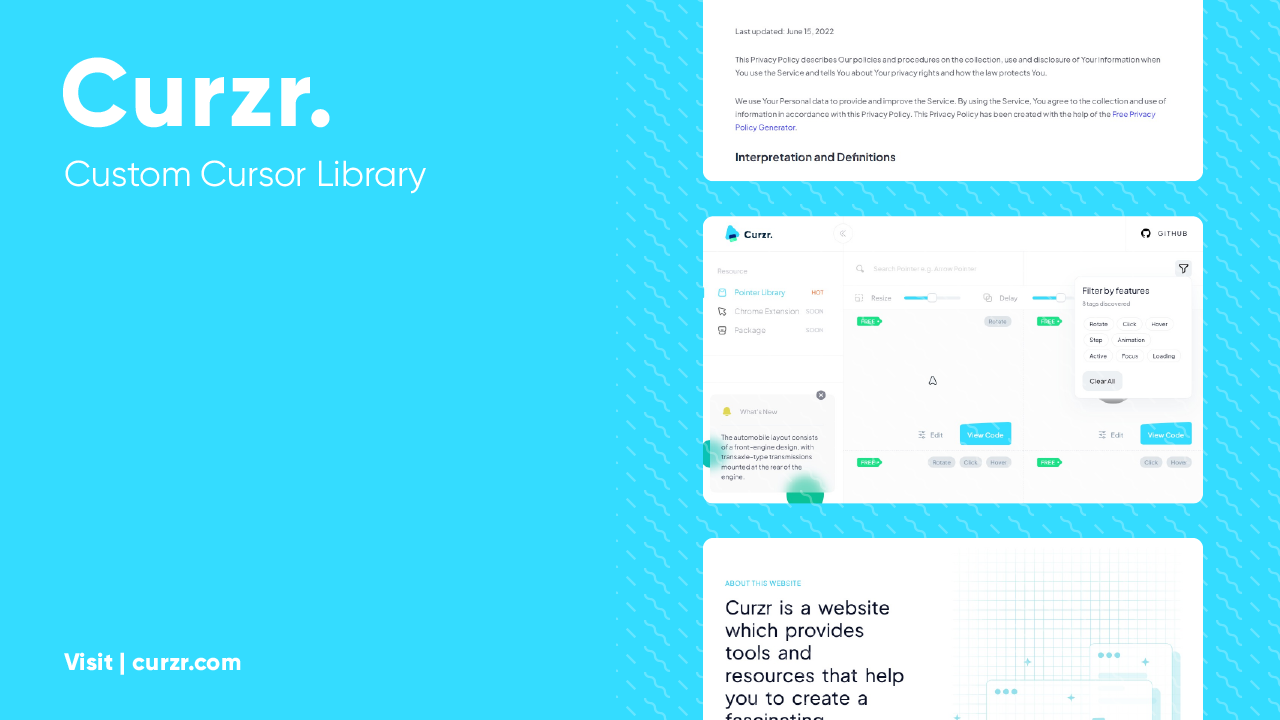
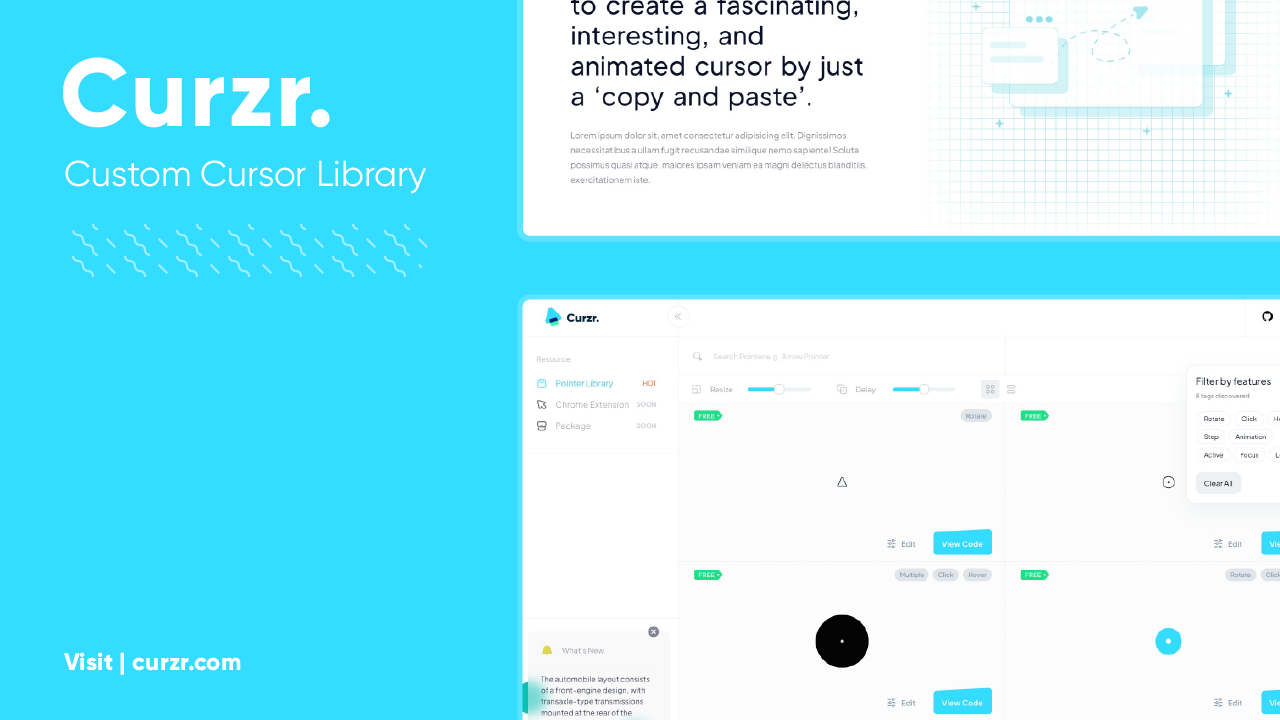
update fall back of cursor for cross browser compatibility

diff --git a/src/components/cursors/ring-dot.vue b/src/components/cursors/ring-dot.vue
@@ -49,6 +49,7 @@
         this.$refs.cursor.style.top = (getComputedStyle(this.$refs.cursor).getPropertyValue('--cursor-size').slice(0, -2) / -2) + 'px' 
         this.$refs.cursor.style.left = (getComputedStyle(this.$refs.cursor).getPropertyValue('--cursor-size').slice(0, -2) / -2) + 'px'
         this.$refs.cursor.style.transition = ''
+        this.$parent.$el.addEventListener('click', this.click)
       },
       /**
        * Get the cursor position by event and apply them to the transform property of the cursor 
@@ -57,12 +58,12 @@
        * @param {object} cursorBlock
        */
       move(event, cursorBlock) {
-        this.pointerX = event.pageX - cursorBlock.getBoundingClientRect().x
-        this.pointerY = event.pageY - cursorBlock.getBoundingClientRect().y + this.$root.$el.getBoundingClientRect().y
-
         event.target.localName === 'button' || event.target.localName === 'a' || event.target.parentElement.localName === 'button' 
           ? this.hover(40) 
           : this.hoverout()
+
+        this.pointerX = event.pageX - cursorBlock.getBoundingClientRect().x
+        this.pointerY = event.pageY - cursorBlock.getBoundingClientRect().y + this.$root.$el.getBoundingClientRect().y
 
         this.$refs.cursor.style.transform = `translate3d(${this.pointerX}px, ${this.pointerY}px, 0)`
       },
@@ -81,6 +82,15 @@
         this.$refs.cursor.style.top = this.$refs.cursor.style.left = `${this.cursorSize / -2}px`
       },
       /**
+       * Apply the transform property when triggered by the 'click' event listener
+       */
+      click() {
+        this.$refs.cursor.style.transform += ` scale(0.75)`
+        setTimeout(() => {
+          this.$refs.cursor.style.transform = this.$refs.cursor.style.transform.replace(` scale(0.75)`, '')
+        }, 35)
+      },
+      /**
        * Center the position of cursor when leaving its container
        */
       reset() {
@@ -88,6 +98,7 @@
         this.$refs.cursor.style.left = ''
         this.$refs.cursor.style.transform = ''
         this.$refs.cursor.style.transition = '500ms'
+        this.$parent.$el.removeEventListener('click', this.click)
       }
     }
   }

diff --git a/src/components/cursors_code/code-ring-dot.vue b/src/components/cursors_code/code-ring-dot.vue
@@ -86,19 +86,19 @@ class RingDot {
   }
 
   move(event) {
-    this.pointerX = event.pageX + this.root.getBoundingClientRect().x
-    this.pointerY = event.pageY + this.root.getBoundingClientRect().y
-  
-    this.curzr.style.transform = \`translate3d(\${this.pointerX}px, \${this.pointerY}px, 0)\`
-
     if (event.target.localName === 'button' || 
         event.target.localName === 'a' || 
         event.target.onclick !== null ||
         event.target.className.includes('curzr-hover')) {
-      this.hover(30)
+      this.hover(40)
     } else {
       this.hoverout()
     }
+    
+    this.pointerX = event.pageX + this.root.getBoundingClientRect().x
+    this.pointerY = event.pageY + this.root.getBoundingClientRect().y
+  
+    this.curzr.style.transform = \`translate3d(\${this.pointerX}px, \${this.pointerY}px, 0)\`
   }
 
   hover(radius) {
@@ -109,6 +109,18 @@ class RingDot {
   hoverout() {
     this.curzr.style.width = this.curzr.style.height = \`\${this.cursorSize}px\`
     this.curzr.style.top = this.curzr.style.left = \`\${this.cursorSize / -2}px\`
+  }
+
+  click() {
+    this.curzr.style.transform += \` scale(0.75)\`
+    setTimeout(() => {
+      this.curzr.style.transform = this.curzr.style.transform.replace(\` scale(0.75)\`, '')
+    }, 35)
+  }
+
+  remove() {
+    this.curzr.remove()
+    this.dot.remove()
   }
 }
 

diff --git a/src/components/cursors/arrow-pointer.vue b/src/components/cursors/arrow-pointer.vue
@@ -91,6 +91,7 @@
        */
       rotate(position) {
         let unsortedAngle = Math.atan(Math.abs(position.distanceY) / Math.abs(position.distanceX)) * this.degrees
+        let modAngle
         this.previousAngle = this.angle
 
         if (position.distanceX <= 0 && position.distanceY >= 0) {
@@ -115,6 +116,21 @@
           }
         }
         this.$refs.cursor.style.transform += ` rotate(${this.angleDisplace}deg)`
+
+        modAngle = this.angleDisplace % 360
+        if (modAngle >= 45 && modAngle < 135) {
+          this.$refs.cursor.style.left = `${ -this.cursorSize }px`
+          this.$refs.cursor.style.top = `${ -this.cursorSize / 2 }px`
+        } else if (modAngle >= 135 && modAngle < 225) {
+          this.$refs.cursor.style.left = `${ -this.cursorSize / 2 }px`
+          this.$refs.cursor.style.top = `${ -this.cursorSize }px`
+        } else if (modAngle >= 225 && modAngle < 315) {
+          this.$refs.cursor.style.left = '0px'
+          this.$refs.cursor.style.top = `${ -this.cursorSize / 2 }px`
+        } else {
+          this.$refs.cursor.style.left = `${ -this.cursorSize / 2 }px`
+          this.$refs.cursor.style.top = '0px'
+        }
       },
       /**
        * Center the position of cursor when leaving its container

diff --git a/src/components/cursors_code/code-arrow-pointer.vue b/src/components/cursors_code/code-arrow-pointer.vue
@@ -95,6 +95,7 @@ class ArrowPointer {
 
   rotate(position) {
     let unsortedAngle = Math.atan(Math.abs(position.distanceY) / Math.abs(position.distanceX)) * this.degrees
+    let modAngle
     this.previousAngle = this.angle
 
     if (position.distanceX <= 0 && position.distanceY >= 0) {
@@ -119,6 +120,21 @@ class ArrowPointer {
       }
     }
     this.cursor.style.transform += \` rotate(\${this.angleDisplace}deg)\`
+
+    modAngle = this.angleDisplace % 360
+    if (modAngle >= 45 && modAngle < 135) {
+      this.cursor.style.left = \`\${ -this.cursorSize }px\`
+      this.cursor.style.top = \`\${ -this.cursorSize / 2 }px\`
+    } else if (modAngle >= 135 && modAngle < 225) {
+      this.cursor.style.left = \`\${ -this.cursorSize / 2 }px\`
+      this.cursor.style.top = \`\${ -this.cursorSize }px\`
+    } else if (modAngle >= 225 && modAngle < 315) {
+      this.cursor.style.left = '0px'
+      this.cursor.style.top = \`\${ -this.cursorSize / 2 }px\`
+    } else {
+      this.cursor.style.left = \`\${ -this.cursorSize / 2 }px\`
+      this.cursor.style.top = '0px'
+    }
   }
 
   remove() {

diff --git a/src/components/cursors_code/code-big-circle.vue b/src/components/cursors_code/code-big-circle.vue
@@ -60,17 +60,15 @@ class BigCircle {
       borderRadius: '50%',
       transition: '500ms, transform 100ms',
       userSelect: 'none',
-      pointerEvents: 'none',
-      backdropFilter: 'invert(1) grayscale(1)'
+      pointerEvents: 'none'
     }
 
     this.dotStyle = {
       position: 'fixed',
-      width: '10px',
-      height: '10px',
-      backgroundColor: '#0007',
+      width: '6px',
+      height: '6px',
+      backgroundColor: '#fffd',
       borderRadius: '50%',
-      boxShadow: '0 0 0 1.5px #fffd',
       userSelect: 'none',
       pointerEvents: 'none',
       transition: '250ms, transform 75ms'
@@ -80,7 +78,8 @@ class BigCircle {
       this.circleStyle.backdropFilter = 'invert(1) grayscale(1)'
       this.circleStyle.backgroundColor = '#fff0'
     } else {
-      this.circleStyle.backgroundColor = '#0008'
+      this.circleStyle.backgroundColor = '#000'
+      this.circleStyle.opacity = '0.5'
     }
 
     this.init(this.circle, this.circleStyle)

diff --git a/src/components/cursors/big-circle.vue b/src/components/cursors/big-circle.vue
@@ -144,7 +144,7 @@
     transform: translate(-50%, -50%);
     width: var(--cursor-size);
     height: var(--cursor-size);
-    background-color: #0008;
+    background-color: #fff0;
     border-radius: 50%;
     transition: 500ms, transform var(--cursor-delay);
     user-select: none;
@@ -156,11 +156,10 @@
     top: 50%;
     left: 50%;
     transform: translate(-50%, -50%);
-    width: 10px;
-    height: 10px;
-    background-color: #0007;
+    width: 6px;
+    height: 6px;
+    background-color: #fffd;
     border-radius: 50%;
-    box-shadow: 0 0 0 1.5px #fffd;
     user-select: none;
     pointer-events: none;
     transition: 250ms, transform calc(var(--cursor-delay) * 0.75);
@@ -170,6 +169,13 @@
     .circle {
       background-color: #fff0;
       backdrop-filter: invert(1) grayscale(1);
+    }
+  }
+
+  @supports not (backdrop-filter: invert(1) grayscale(1)) {
+    .circle {
+      background-color: #000;
+      opacity: .5;
     }
   }
 }

diff --git a/src/components/cursors_code/code-glitch-effect.vue b/src/components/cursors_code/code-glitch-effect.vue
@@ -67,6 +67,13 @@ class GlitchEffect {
       pointerEvents: 'none'
     }
 
+    if (CSS.supports("backdrop-filter", "invert(1)")) {
+      this.cursorStyle.backdropFilter = 'invert(1)'
+      this.cursorStyle.backgroundColor = '#fff0'
+    } else {
+      this.cursorStyle.backgroundColor = '#222'
+    }
+
     this.init(this.cursor, this.cursorStyle)
   }
 

diff --git a/src/components/cursors/glitch-effect.vue b/src/components/cursors/glitch-effect.vue
@@ -145,4 +145,17 @@
   user-select: none;
   pointer-events: none;
 }
+
+@supports (backdrop-filter: invert(1)) {
+  .curzr-glitch-effect {
+    background-color: #fff0;
+    backdrop-filter: invert(1);
+  }
+}
+
+@supports not (backdrop-filter: invert(1)) {
+  .curzr-glitch-effect {
+    background-color: #222;
+  }
+}
 </style>
